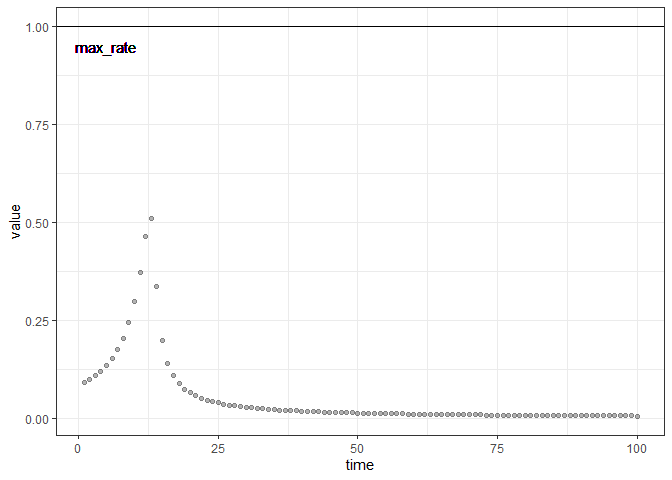
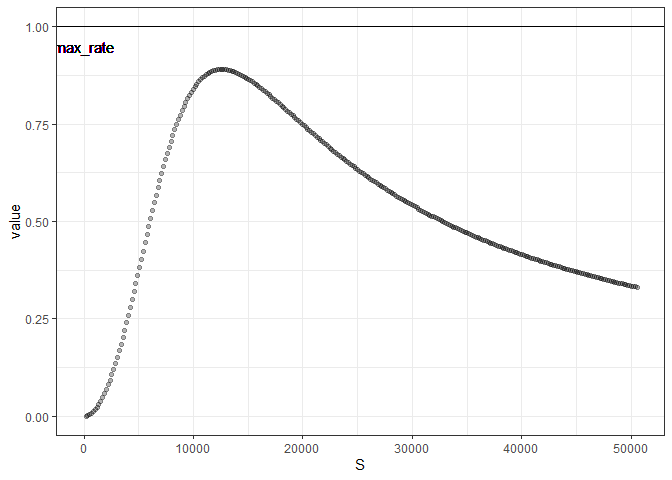
modifying Hill equation #165

diff --git a/inst/starter_models/shiver/README.md b/inst/starter_models/shiver/README.md
@@ -101,8 +101,8 @@ plausible tranmission rates for vaccinated and unvaccinated individuals.
 We load the model specification from the model library.
 
 ``` r
-source("tmb.R")
-#spec = mp_tmb_library("starter_models","shiver", package="macpan2")
+#source("tmb.R")
+spec = mp_tmb_library("starter_models","shiver", package="macpan2")
 ```
 
 ## Calibration Scenario
@@ -1012,62 +1012,63 @@ of the dependent variable $x$ at the half maximum.
 ``` r
 # Hill parameters
 # asymptote
-A = daily_vaccinations
+A = round(daily_vaccinations)
 # value of S at half maximum, seems like a sensible choice
 half_max = A/2
 # Hill coefficient - chosen randomly, but higher n creates steeper slopes
 n = 3
+
+# scaling factor
+sc  = 3/(4*2^(1/3))
 ```
 
 ![](./figures/hill_plot-1.png)<!-- -->
 
-To restrict the vaccination rate to be at most 1, we use the method in
-Gharouni et al. ([2022](#ref-gharouni_2022)) Appendix 5 to modify the
-output of the hill function.
-
-``` r
-# Gharouni parameters
-max_rate = 1 #tau parameter in Gharouni
-```
-
-We then use this rate as our vaccination rate,
-$\phi(S(t)) = \frac{\textrm{max}_{rate} Hill(S)}{\textrm{max}_{rate} S + Hill(S)}$
-
 ``` r
 
-# test out Gharouni (2022) rate
+# test out hill function
 hill_data = simple_sims(
     iteration_exprs = list(
-        hill_fn ~ (A * (S^n))/((half_max)^n + (S^n))
-      , vaccination ~ ((max_rate * hill_fn)/((max_rate * S) + (hill_fn)))
-      , flow ~ vaccination * S
-      , S ~ S - flow
+      hill_fn ~ (A * (sc * (S^n)))/((half_max)^n + (sc * (S^n)))
     )
-  , time_steps = 100
+  , time_steps = 1L
   , mats = list(
       hill_fn = 0
     , A = A
-    , S = A*10
+    , sc  =  sc
+    , S = S
     , n = n
     , half_max = half_max
-    , max_rate = max_rate
     , N_mix = N
-    , vaccination = 0
-    , flow = 0
   )
 )
 
-# rate is always less than 1 and is larger for smaller S, good
-# not sure why there is a peak (maybe part of hill coeficient choice)
-(hill_data 
-   |> filter(matrix %in% c("vaccination"))
-   |> ggplot(aes(time,value))
+# this is right
+(hill_data
+   |> filter(matrix %in% c("hill_fn"))
+   |> cbind(S)
+   |> ggplot(aes(S, value))
    + geom_point(alpha=0.3)
-   + geom_hline(yintercept = 1)
-   + geom_text(x=5,y=0.95,label="max_rate")
+   + geom_hline(yintercept = A,col="blue")
+   + geom_text(x=50,y=A-300,label="A", col="blue")
+   # + geom_text(x=500,y=2500,label=expression(phi = S),col="red")
+   + geom_abline(a=0,b=1, col="red")
+   + ggtitle("Variable vaccination rate using the Hill function")
    + theme_bw()
-)
+   + ylab("H(S)")
+
+  )
+#> Warning in geom_abline(a = 0, b = 1, col = "red"): Ignoring unknown parameters:
+#> `a` and `b`
 ```
+
+![](./figures/scaling_hill-1.png)<!-- -->
+
+<!--To restrict the vaccination rate to be at most 1, we use the method in @gharouni_2022 Appendix 5 to modify the output of the hill function. -->
+<!-- We then use this rate as our vaccination rate,  $\phi(S(t)) =  \frac{\textrm{max}_{rate} Hill(S)}{\textrm{max}_{rate} S + Hill(S)}$ -->
+
+    #> Warning: Removed 1 row containing missing values or values outside the scale range
+    #> (`geom_point()`).
 
 ![](./figures/gharouni_rate-1.png)<!-- -->
 
@@ -1078,21 +1079,42 @@ spec_vaccine_rate = mp_tmb_update(
   , phase = "during"
   , at = 2L
   , expression = list(
-      hill_fn ~ (A * (S^n))/((half_max)^n + (S^n)),
+      hill_fn ~ (A * (sc * (S^n)))/((half_max)^n + (sc * (S^n))),
       mp_per_capita_flow(
         from = "S"
       , to = "V"
-      , rate = vaccination ~ ((max_rate * hill_fn)/((max_rate * S) + (hill_fn)))
+      , rate = vaccination ~ hill_fn/S
   )
   )
   , default = list(
       A = A
     , half_max = half_max
     , n = n
+    , sc = sc
     , max_rate = max_rate
     , vaccination = 0
   )
 )
+# spec_vaccine_rate = mp_tmb_update(
+#     reparameterized_spec
+#   , phase = "during"
+#   , at = 2L
+#   , expression = list(
+#       hill_fn ~ (A * (S^n))/((half_max)^n + (S^n)),
+#       mp_per_capita_flow(
+#         from = "S"
+#       , to = "V"
+#       , rate = vaccination ~ ((max_rate * hill_fn)/((max_rate * S) + (hill_fn)))
+#   )
+#   )
+#   , default = list(
+#       A = A
+#     , half_max = half_max
+#     , n = n
+#     , max_rate = max_rate
+#     , vaccination = 0
+#   )
+# )
 print(spec_vaccine_rate)
 #> ---------------------
 #> Default values:
@@ -1115,9 +1137,10 @@ print(spec_vaccine_rate)
 #>        logit_a            -4.5951199
 #>       log_beta            -4.6051702
 #>  log_E_I_ratio             0.6931472
-#>              A         16848.8928571
-#>       half_max          8424.4464286
+#>              A         16849.0000000
+#>       half_max          8424.5000000
 #>              n             3.0000000
+#>             sc             0.5952754
 #>       max_rate             1.0000000
 #>    vaccination             0.0000000
 #> 
@@ -1134,9 +1157,9 @@ print(spec_vaccine_rate)
 #> At every iteration of the simulation loop (t = 1 to T):
 #> ---------------------
 #> 1: N_mix ~ N - H
-#> 2: hill_fn ~ (A * (S^n))/((half_max)^n + (S^n))
+#> 2: hill_fn ~ (A * (sc * (S^n)))/((half_max)^n + (sc * (S^n)))
 #> 3: mp_per_capita_flow(from = "S", to = "V", rate = vaccination ~ 
-#>      ((max_rate * hill_fn)/((max_rate * S) + (hill_fn))))
+#>      hill_fn/S)
 #> 4: mp_per_capita_flow(from = "S", to = "E", rate = unvaccinated_exposure ~ 
 #>      I * beta/N_mix)
 #> 5: mp_per_capita_flow(from = "V", to = "E", rate = vaccinated_exposure ~ 
@@ -1190,6 +1213,8 @@ we have smaller numbers of susceptibles. We can now try calibrating
 # try calibratings ....
 # can we estimate fit to real data and see if we can get similar estimates for
 # beta and E_I ratio
+# # converges and get similar estimates when phi is constant
+# # makes sense I think because these parameters don't relate to vaccination rate
 cal_vaccine_supply = mp_tmb_calibrator(
   spec = spec_vaccine_rate |> mp_rk4()
   , data = reported_hospitalizations
@@ -1197,6 +1222,8 @@ cal_vaccine_supply = mp_tmb_calibrator(
   , par = c("log_beta","log_E_I_ratio")
   , outputs=states
 )
+
+
 cal_vaccine_supply = mp_tmb_calibrator(
   spec = spec_vaccine_rate |> mp_rk4()
   , data = reported_hospitalizations
@@ -1204,8 +1231,7 @@ cal_vaccine_supply = mp_tmb_calibrator(
   , par = c("vaccination")
   , outputs=states
 )
-# # converges and get similar estimates when phi is constant
-# # makes sense I think because these parameters don't relate to vaccination rate
+
 mp_optimize(cal_vaccine_supply)
 #> outer mgc:  0
 #> $par
@@ -1213,7 +1239,7 @@ mp_optimize(cal_vaccine_supply)
 #>      0 
 #> 
 #> $objective
-#> [1] 144023.6
+#> [1] 144020.5
 #> 
 #> $convergence
 #> [1] 0
@@ -1259,15 +1285,6 @@ Brauer, Fred, and Carlos Castillo-Chavez. 2012. *Mathematical Models in
 Population Biology and Epidemiology*. Vol. 40. Texts in Applied
 Mathematics. New York, NY: Springer New York.
 <https://doi.org/10.1007/978-1-4614-1686-9>.
-
-</div>
-
-<div id="ref-gharouni_2022" class="csl-entry">
-
-Gharouni, Ali, Fred M. Abdelmalek, David J. D. Earn, Jonathan Dushoff,
-and Benjamin M. Bolker. 2022. “Testing and Isolation Efficacy: Insights
-from a Simple Epidemic Model.” *Bulletin of Mathematical Biology* 84
-(6): 66. <https://doi.org/10.1007/s11538-022-01018-2>.
 
 </div>
 
